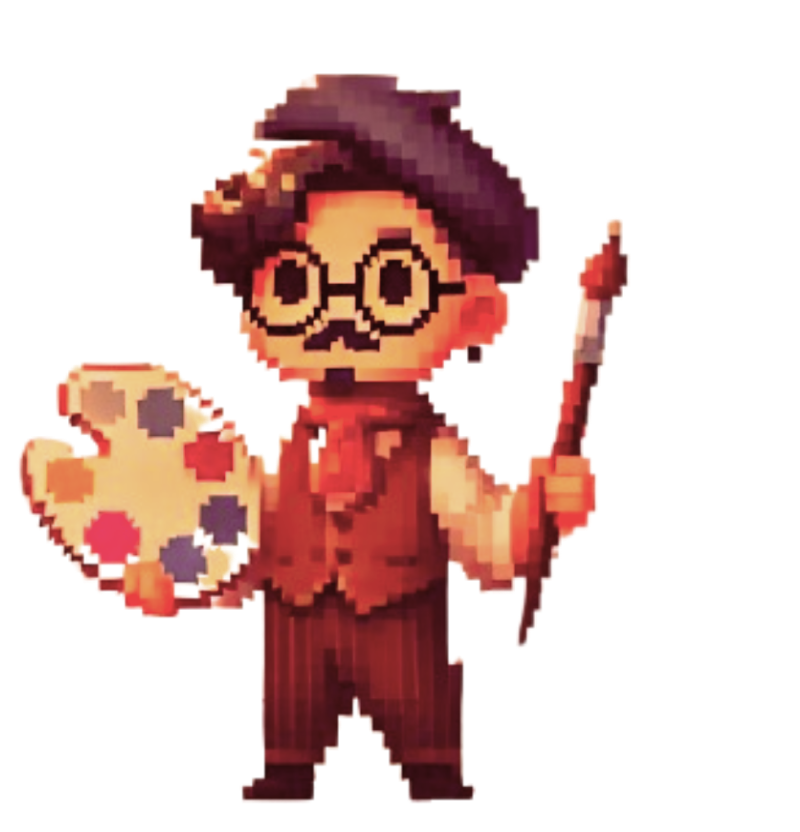
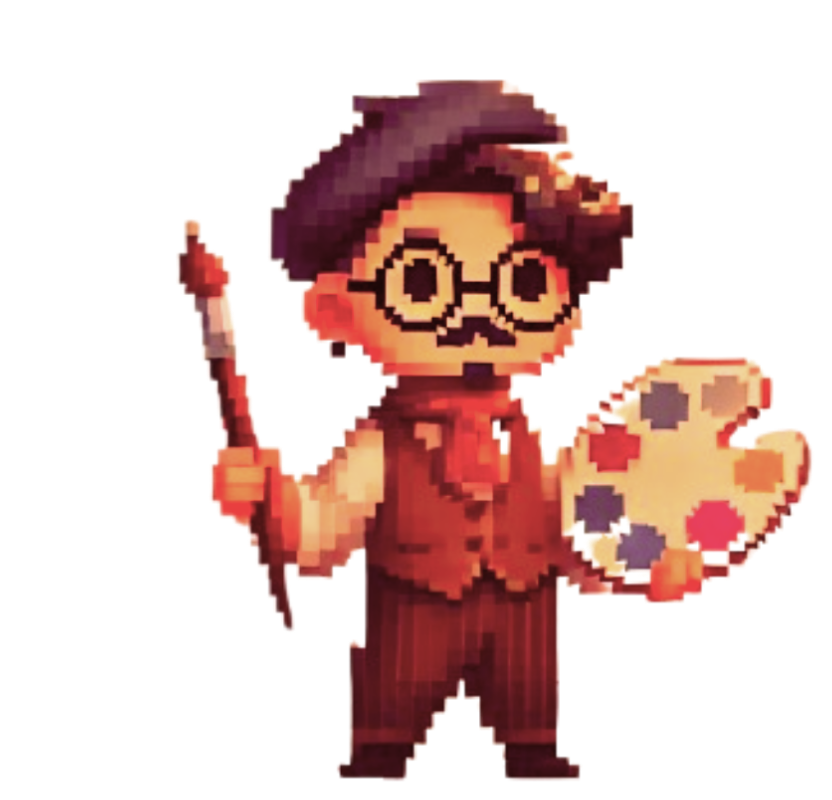
Fix looser card

diff --git a/src/components/LooserCard.tsx b/src/components/LooserCard.tsx
@@ -1,6 +1,6 @@
 import kingImage from "../assets/king.png?w=416&h=401&format=webp&hasAlpha=true&imagetools";
-import designRedImage from "../assets/design-red.png?w=400&h=416&format=webp&hasAlpha=true&imagetools";
-import codeRedImage from "../assets/code-red.png?w=400&h=416&format=webp&hasAlpha=true&imagetools";
+import designRedImage from "../assets/design-red-loose.png?w=400&h=416&format=webp&hasAlpha=true&imagetools";
+import codeRedImage from "../assets/code-red-loose.png?w=400&h=416&format=webp&hasAlpha=true&imagetools";
 import crySvg from "../icons/cry.svg";
 import clashOfDevSvg from "../icons/clash_of_dev.svg";
 import { selectedCharacter } from "../signals/CharacterSelection";
@@ -25,24 +25,29 @@ export function LooserCard() {
             <div class="absolute bottom-[-191px] right-[-146px]">
                 <div class="relative h-auto w-full">
                     {selectedCharacter.value === 2 && (
-                        <img
-                            src={designRedImage}
-                            alt="A sad design player"
-                            width={400}
-                            height={416}
-                            class="h-auto w-full rotate-[33.27deg] object-contain"
-                        />
+                        <>
+                            <img
+                                src={designRedImage}
+                                alt="A sad design player"
+                                width={400}
+                                height={416}
+                                class="h-auto w-full rotate-[33.27deg] object-contain"
+                            />
+                            <img src={crySvg} class="absolute bottom-[232px] right-[166px] h-[62px] w-[58px]" />
+                        </>
                     )}
                     {selectedCharacter.value === 3 && (
-                        <img
-                            src={codeRedImage}
-                            alt="A sad code player"
-                            width={400}
-                            height={416}
-                            class="h-auto w-full rotate-[33.27deg] object-contain"
-                        />
+                        <>
+                            <img
+                                src={codeRedImage}
+                                alt="A sad code player"
+                                width={400}
+                                height={416}
+                                class="h-auto w-full rotate-[33.27deg] object-contain"
+                            />
+                            <img src={crySvg} class="absolute bottom-[269px] right-[167px] h-[62px] w-[33px]" />
+                        </>
                     )}
-                    <img src={crySvg} class="absolute bottom-[232px] right-[166px] h-[62px] w-[58px]" />
                 </div>
             </div>
             <div class="absolute bottom-0 right-[140px]">
